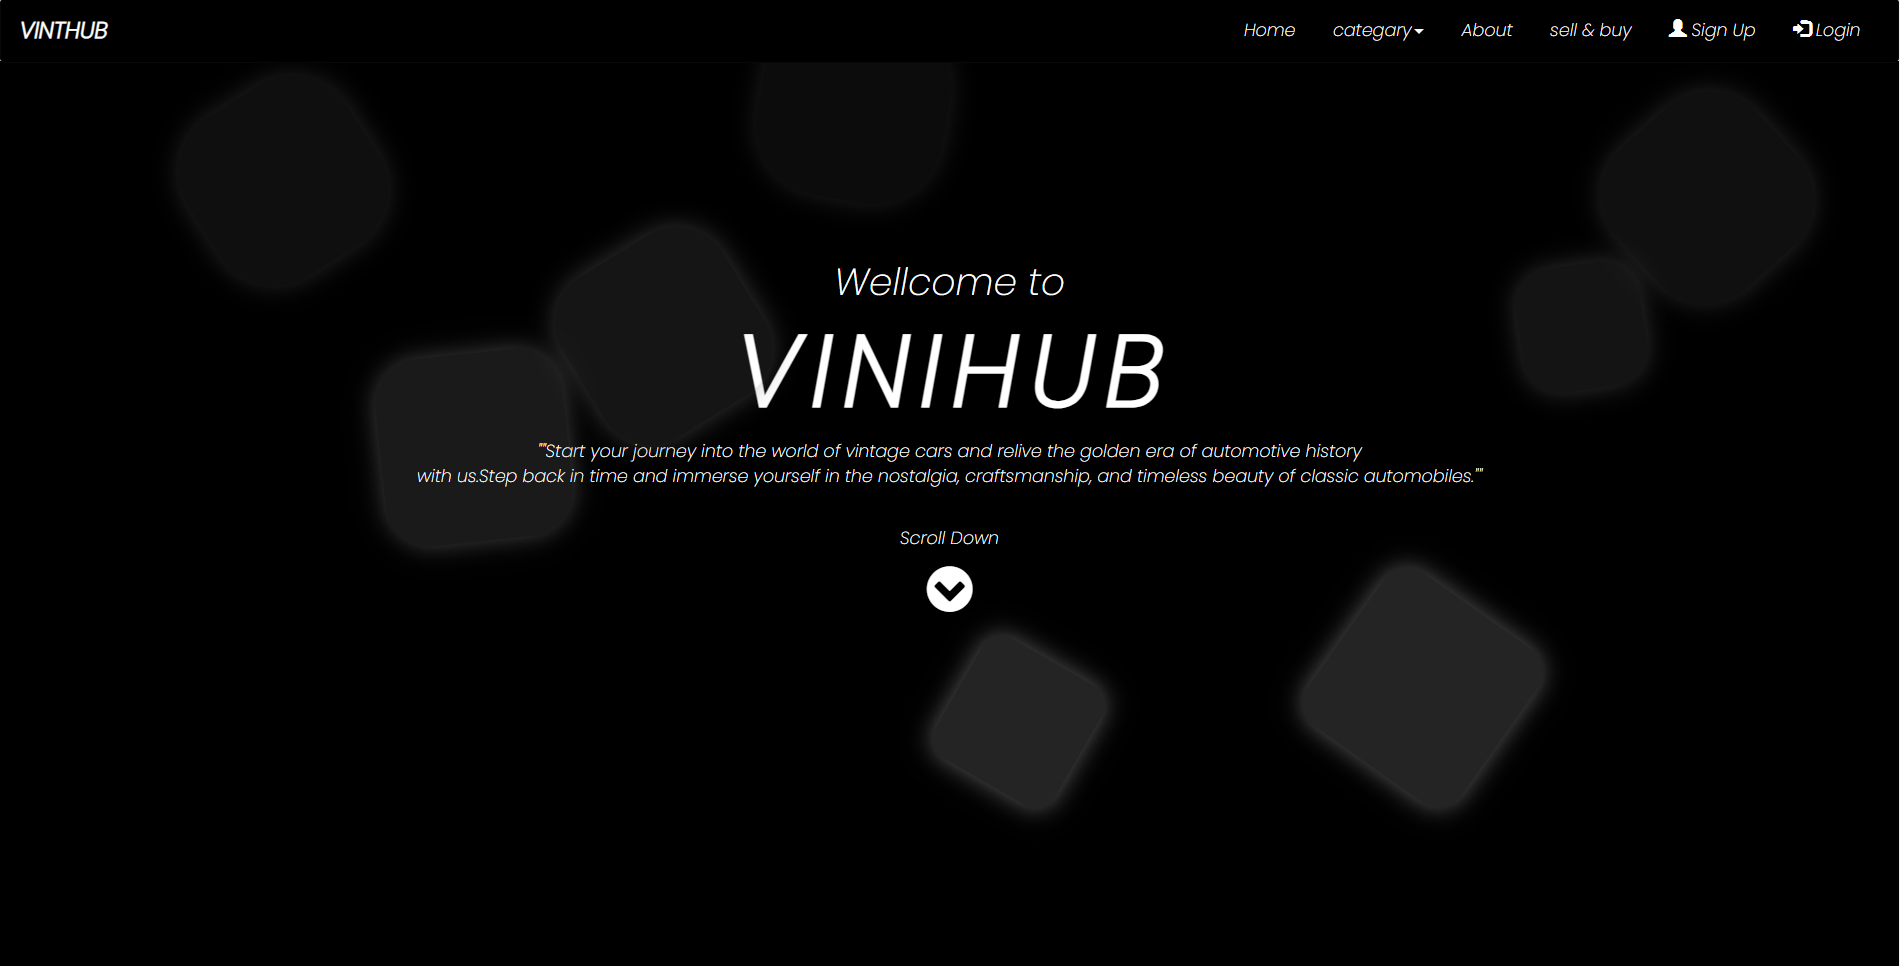
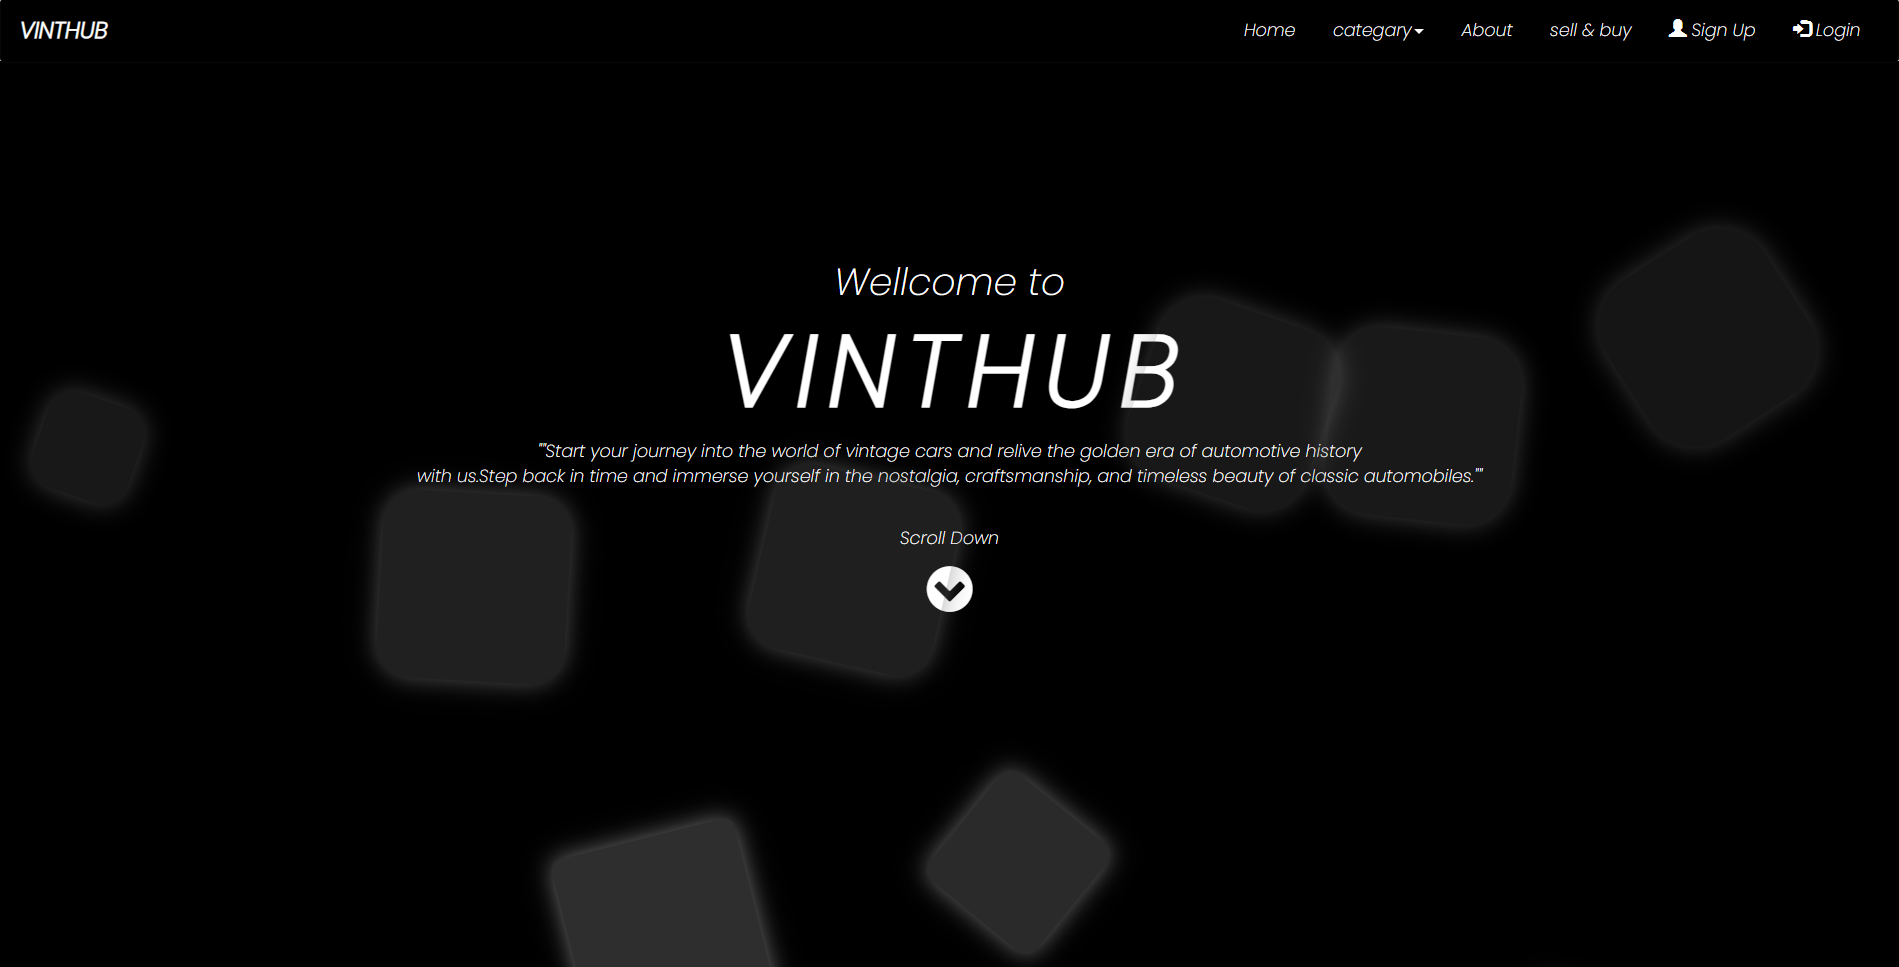
files added

diff --git a/portfolio2.html b/portfolio2.html
@@ -48,16 +48,16 @@
             <div class="col-md-8 mt-4">
               <div class="row">
                 <div class="col-md-4 d-flex flex-column justify-content-evenly">
-                  <h1 class="stroke">VintHub</h1>
-                  <a href="https://vinthub.netlify.app/" target="_self" class="u1">Click here for more Details</a>
+                  <h1 class="stroke">Lohieth Portfolio</h1>
+                  <a href="https://lohieth.netlify.app/" target="_self" class="u1">Click here for more Details</a>
                 </div>
                 <div class="col-md-8 p-3">
                   <p>
-                    At Vinthub, we indulge in the timeless allure of vintage automobiles. Our passion for classic cars is matched only by our dedication to providing enthusiasts like you with a seamless platform to explore, buy, and sell these automotive treasures.
+                    At Farzi Tech, we believe in pushing the boundaries of creativity and innovation. With Lohieth's Portfolio, we've once again demonstrated our dedication to delivering exceptional digital solutions that inspire, engage, and leave a lasting impression. Join us as we continue to shape the future of web development, one project at a time.
                   </p>
                 </div>
                 <img
-                  src="./img/vinthub.png"
+                  src="./img/lk-1.png"
                   class="img-fluid mb-5"
                   alt="vithub image.png"
                 />
@@ -66,32 +66,32 @@
                   <div class="row">
                     <div class=" col-lg-3 col-md-6 col-sm-12 mb-5">
                       <img
-                        src="./img/car1.png"
+                        src="./img/lk-2.png"
                         class="img-fluid img-thumbnail img-pro"
                         alt="vithub image.png" 
                       />
                     </div>
                     <div class="col-lg-3 col-md-6 col-sm-12 mb-5">
                       <img
-                        src="./img/car2.png"
+                        src="./img/lk--3.png"
                         class="img-fluid img-thumbnail img-pro"
                         alt=""
                       />
                     </div>
                     <div class="col-lg-3 col-md-6 col-sm-12 mb-5">
                       <img
-                        src="./img/car3.png"
+                        src="./img/lk-4.png"
                         class="img-fluid img-thumbnail img-pro"
                         alt="vithub image.png"
                       />
                     </div>
                     <div class="col-lg-3 col-md-6 col-sm-12 mb-5">
-                      <img
-                        src="./img/car4.png"
-                        class="img-fluid img-thumbnail img-pro"
-                        alt="vithub image.png"
-                      />
-                    </div>
+                        <img
+                          src="./img/lk-5.png"
+                          class="img-fluid img-thumbnail img-pro"
+                          alt="vithub image.png"
+                        />
+                      </div>
                   </div>
                 </div>
               </div>

diff --git a/portfolio1.html b/portfolio1.html
@@ -48,46 +48,39 @@
             <div class="col-md-8 mt-4">
               <div class="row">
                 <div class="col-md-4 d-flex flex-column justify-content-evenly">
-                  <h1 class="stroke">VintHub</h1>
-                  <a href="https://vinthub.netlify.app/" target="_self" class="u1">Click here for more Details</a>
+                  <h1 class="stroke">Kishore Kumar Portfolio</h1>
+                  <a href="https://kishorekumar0603.github.io/Portfolio/" target="_self" class="u1">Click here for more Details</a>
                 </div>
                 <div class="col-md-8 p-3">
                   <p>
-                    At Vinthub, we indulge in the timeless allure of vintage automobiles. Our passion for classic cars is matched only by our dedication to providing enthusiasts like you with a seamless platform to explore, buy, and sell these automotive treasures.
+                    The portfolio features a clean and modern design, with carefully curated content and visually striking imagery that captivates visitors from the moment they land on the site. Thanks to Bootstrap's responsive grid system, the website adapts flawlessly to various screen sizes and devices, ensuring an optimal viewing experience for users across desktops, laptops, tablets, and smartphones.
                   </p>
                 </div>
                 <img
-                  src="./img/vinthub.png"
+                  src="./img/portfolio.png"
                   class="img-fluid mb-5"
                   alt="vithub image.png"
                 />
                 <h2>More Previews :</h2>
                 <div class="col-md-12 mt-2">
                   <div class="row">
-                    <div class=" col-lg-3 col-md-6 col-sm-12 mb-5">
+                    <div class=" col-lg-4 col-md-6 col-sm-12 mb-5">
                       <img
-                        src="./img/car1.png"
+                        src="./img/kk-1.png"
                         class="img-fluid img-thumbnail img-pro"
                         alt="vithub image.png" 
                       />
                     </div>
-                    <div class="col-lg-3 col-md-6 col-sm-12 mb-5">
+                    <div class="col-lg-4 col-md-6 col-sm-12 mb-5">
                       <img
-                        src="./img/car2.png"
+                        src="./img/kk-2.png"
                         class="img-fluid img-thumbnail img-pro"
                         alt=""
                       />
                     </div>
-                    <div class="col-lg-3 col-md-6 col-sm-12 mb-5">
+                    <div class="col-lg-4 col-md-6 col-sm-12 mb-5">
                       <img
-                        src="./img/car3.png"
-                        class="img-fluid img-thumbnail img-pro"
-                        alt="vithub image.png"
-                      />
-                    </div>
-                    <div class="col-lg-3 col-md-6 col-sm-12 mb-5">
-                      <img
-                        src="./img/car4.png"
+                        src="./img/kk-3.png"
                         class="img-fluid img-thumbnail img-pro"
                         alt="vithub image.png"
                       />

diff --git a/Architect.html b/Architect.html
@@ -48,16 +48,22 @@
             <div class="col-md-8 mt-4">
               <div class="row">
                 <div class="col-md-4 d-flex flex-column justify-content-evenly">
-                  <h1 class="stroke">VintHub</h1>
-                  <a href="https://vinthub.netlify.app/" target="_self" class="u1">Click here for more Details</a>
+                  <div class="row">
+                    <div class="col-12">
+                      <h1 class="stroke">Architect</h1>
+                    </div>
+                    <div class="col-12">
+                      <a href="https://architectcovai.netlify.app/" target="_self" class="u1">Click here for more Details</a>
+                    </div>
+                  </div>
                 </div>
                 <div class="col-md-8 p-3">
                   <p>
-                    At Vinthub, we indulge in the timeless allure of vintage automobiles. Our passion for classic cars is matched only by our dedication to providing enthusiasts like you with a seamless platform to explore, buy, and sell these automotive treasures.
+                    Architect Covai is a passion project aimed at celebrating and preserving the architectural treasures that adorn the streets of Coimbatore. Through this platform, we invite you on a journey of discovery, where every corner unveils a new masterpiece waiting to be admired.
                   </p>
                 </div>
                 <img
-                  src="./img/vinthub.png"
+                  src="./img/architect.png"
                   class="img-fluid mb-5"
                   alt="vithub image.png"
                 />
@@ -66,28 +72,28 @@
                   <div class="row">
                     <div class=" col-lg-3 col-md-6 col-sm-12 mb-5">
                       <img
-                        src="./img/car1.png"
+                        src="./img/architect-1.png"
                         class="img-fluid img-thumbnail img-pro"
                         alt="vithub image.png" 
                       />
                     </div>
                     <div class="col-lg-3 col-md-6 col-sm-12 mb-5">
                       <img
-                        src="./img/car2.png"
+                        src="./img/architect-2.png"
                         class="img-fluid img-thumbnail img-pro"
                         alt=""
                       />
                     </div>
                     <div class="col-lg-3 col-md-6 col-sm-12 mb-5">
                       <img
-                        src="./img/car3.png"
+                        src="./img/architect-3.png"
                         class="img-fluid img-thumbnail img-pro"
                         alt="vithub image.png"
                       />
                     </div>
                     <div class="col-lg-3 col-md-6 col-sm-12 mb-5">
                       <img
-                        src="./img/car4.png"
+                        src="./img/architect-4.png"
                         class="img-fluid img-thumbnail img-pro"
                         alt="vithub image.png"
                       />

diff --git a/style.css b/style.css
@@ -1,13 +1,47 @@
+@import url('https://fonts.googleapis.com/css2?family=Poppins:ital,wght@0,100;0,200;0,300;0,400;0,500;0,600;0,700;0,800;0,900;1,100;1,200;1,300;1,400;1,500;1,600;1,700;1,800;1,900&display=swap');
+@import url('https://fonts.googleapis.com/css2?family=Jersey+25+Charted&family=Poppins:ital,wght@0,100;0,200;0,300;0,400;0,500;0,600;0,700;0,800;0,900;1,100;1,200;1,300;1,400;1,500;1,600;1,700;1,800;1,900&display=swap');
+
+
+*{
+    font-family: "Poppins", sans-serif;
+}
 a{
     text-decoration: none !important;
     color:black !important;
     transition: 0.5s;
 }
 a:hover{
-    color:rgb(112, 88, 88) !important;
+    color:rgb(118, 165, 161) !important;
     
 }
+.h{
+    font-family: "Jersey 25 Charted", sans-serif;
+  
+}
 
+.img-pro{
+    transition: 0.6s;
+}
 .img-pro:hover{
-    transform: scale(0.9);
+    transform: scale(1.02);
+    opacity: 0.8;
+
+}
+.u1{
+    color:rgb(37, 64, 159) !important;
+}
+
+
+@media (max-width: 768px) {
+
+    .list-group{
+        text-align: center !important;
+    }
+    .bored{
+        border:none !important;
+    }
+  }
+.stroke{
+    -webkit-text-stroke: 2px black;
+    color: transparent;
 }
